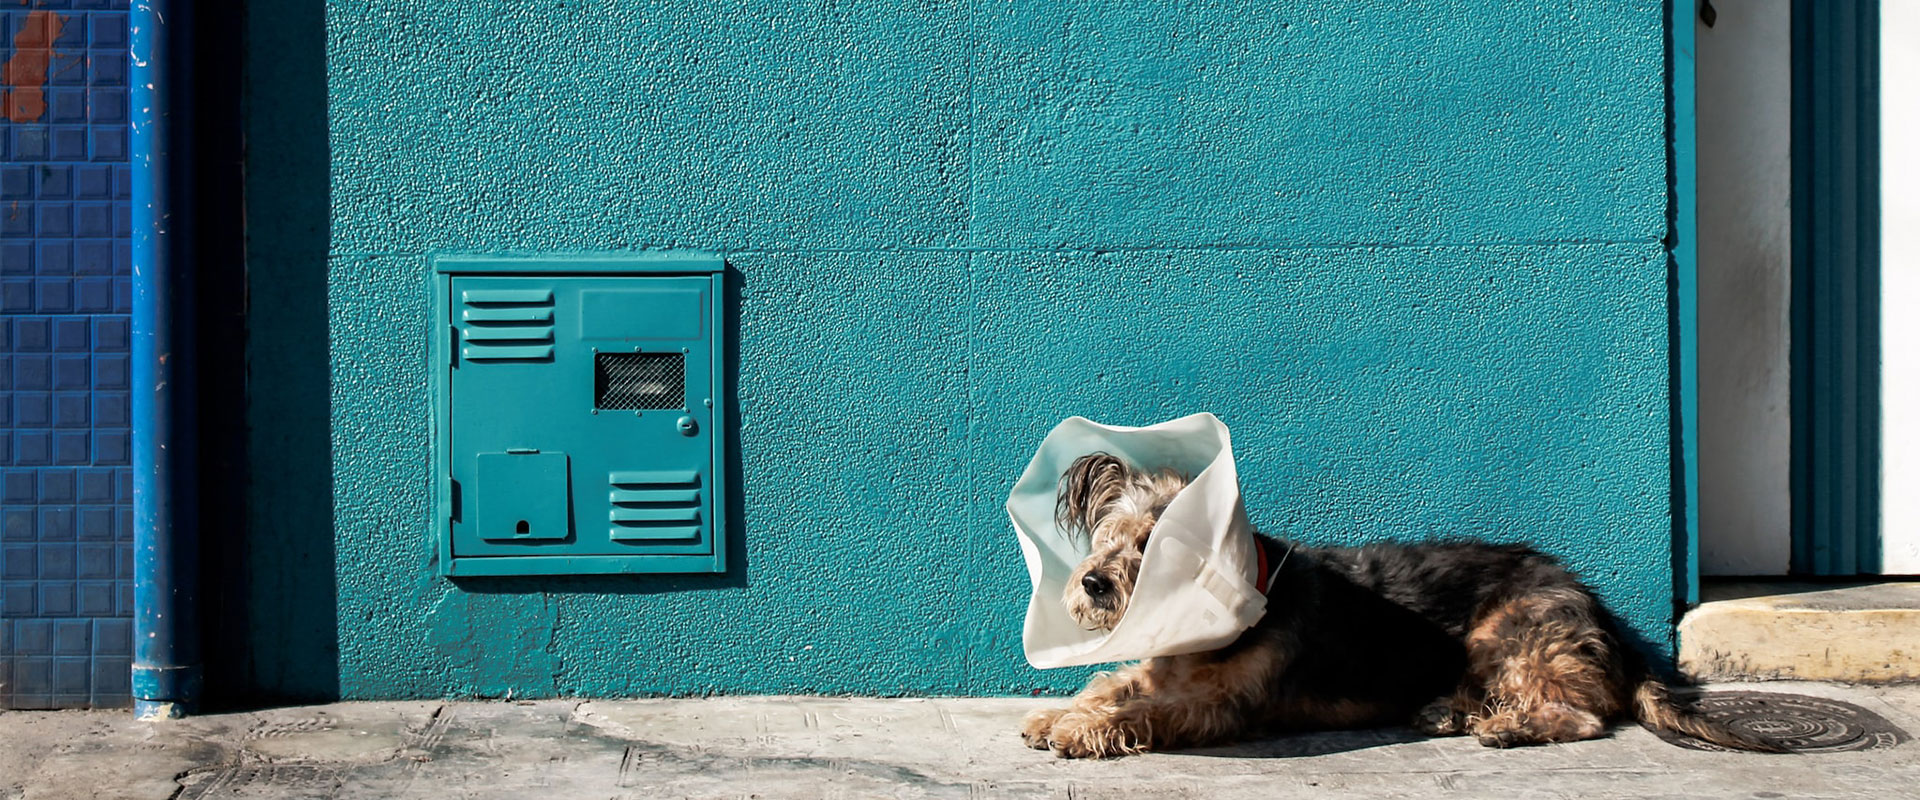
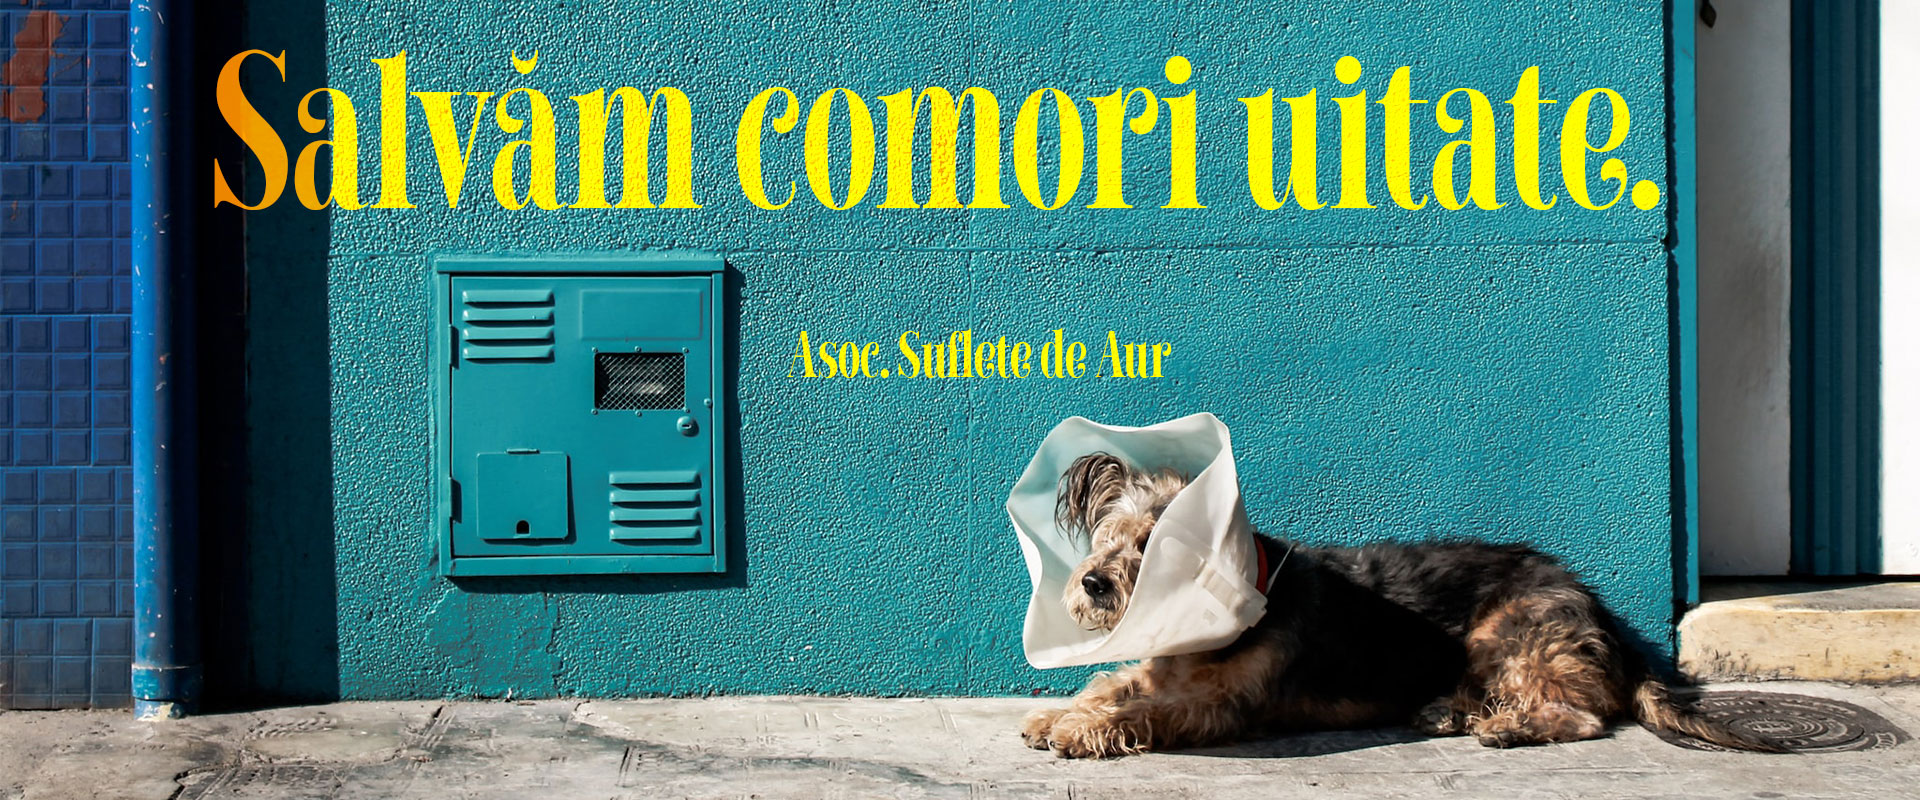
Am adaugat sectiunea Donatii si am ajustat designul
am adaugat sectiunea donatii si implicare am adugat margin la h2-uri si am editat pozele deja folosite

Changed region(s): [[0.0938, 0.0625, 0.875, 0.2812], [0.4062, 0.4062, 0.625, 0.4688]]

diff --git a/index.html b/index.html
@@ -11,30 +11,34 @@
 <style>
 .flex{ display:flex}
 .margin-card{margin:10px}
-
-
+.bg-y{background-color: rgb(225, 176, 55);}
+.bg-b{background-color: rgb(38, 110, 120);}
+.bg-w{background-color: rgb(248, 245, 230);}
+.txt-y{color: rgb(225, 176, 55);}
+.txt-b{color:rgb(52, 150, 162);}
+.txt-w{color:rgb(248, 245, 230);}
 </style>
 
 <body>
- <nav class="navbar navbar-expand-lg bg-body-tertiary">
-  <div class="container-fluid">
-    <a class="navbar-brand" href="#">Acasă</a>
+ <nav class="navbar navbar-expand-lg bg-body-tertiary sticky-top">
+  <div class="container-fluid bg-b">
+    <img src="scut.png" class="x-2" alt="scut galben">
     <button class="navbar-toggler" type="button" data-bs-toggle="collapse" data-bs-target="#navbarNav" aria-controls="navbarNav" aria-expanded="false" aria-label="Toggle navigation">
       <span class="navbar-toggler-icon"></span>
     </button>
     <div class="collapse navbar-collapse" id="navbarNav">
       <ul class="navbar-nav">
         <li class="nav-item">
-          <a class="nav-link active" aria-current="page" href="#">Home</a>
+          <a class="nav-link txt-y" aria-current="page" href="#">Acasă</a>
         </li>
         <li class="nav-item">
-          <a class="nav-link" href="#">Features</a>
+          <a class="nav-link txt-y" href="#">Secțiune 1</a>
         </li>
         <li class="nav-item">
-          <a class="nav-link" href="#">Pricing</a>
+          <a class="nav-link txt-y" href="#">Secțiune 2</a>
         </li>
         <li class="nav-item">
-          <a class="nav-link disabled" aria-disabled="true">Disabled</a>
+          <a class="nav-link txt-y" href="#">Secțiune 3</a>
         </li>
       </ul>
     </div>
@@ -79,7 +83,7 @@
 </div>
 </div>
 
-<h2 class="text-center">Ei așteaptă să fie descoperiți</h2>
+<h2 class="text-center my-4">Ei așteaptă să fie descoperiți</h2>
 
 <div id="carouselExampleCaptions" class="carousel slide">
   <div class="carousel-indicators">
@@ -89,24 +93,24 @@
   </div>
   <div class="carousel-inner">
     <div class="carousel-item active">
-      <img src="caine-cu-limba-scoasa.jpg" class="d-block w-100" alt="...">
+      <img src="caine-cu-limba-scoasa.jpg" class="d-block w-100" alt="caiine cu limba scoasă">
       <div class="carousel-caption d-none d-md-block">
-        <h5>First slide label</h5>
-        <p>Some representative placeholder content for the first slide.</p>
+        <h3>Mochi</h3>
+        <p>Mochi îți aduce zilnic zâmbete cu energia lui dulce.</p>
       </div>
     </div>
     <div class="carousel-item">
-      <img src="caine-cu-gura-deschisa.jpg" class="d-block w-100" alt="...">
+      <img src="caine-cu-gura-deschisa.jpg" class="d-block w-100" alt="caine cu gura deschisă">
       <div class="carousel-caption d-none d-md-block">
-        <h5>Second slide label</h5>
-        <p>Some representative placeholder content for the second slide.</p>
+        <h3>Bubu</h3>
+        <p>Bubu cucerește inimile cu limbuța lui jucăușă.</p>
       </div>
     </div>
     <div class="carousel-item">
-      <img src="caine-cu-spatele.jpg" class="d-block w-100" alt="...">
+      <img src="caine-cu-spatele.jpg" class="d-block w-100" alt="caine întors cu spatele">
       <div class="carousel-caption d-none d-md-block">
-        <h5>Third slide label</h5>
-        <p>Some representative placeholder content for the third slide.</p>
+        <h3>Pistachio</h3>
+        <p>Pistachio promite iubire sinceră cu fiecare privire întoarsă.</p>
       </div>
     </div>
   </div>
@@ -120,9 +124,36 @@
   </button>
 </div>
 
+<h2 class="text-center my-4">Donații & Implicare</h2>
 
+<div class="flex">
+<div class="card mx-1">
+  <img src="donate.jpg" class="card-img-top" alt="baloane D O N A T E">
+  <div class="card-body">
+    <h3 class="card-title">Donează Lunar</h3>
+    <p class="card-text">Chiar și suma echivalentă unei cafele asigură hrana unui cățel pentru o zi. Fii stabilitatea de care au nevoie.</p>
+    <a href="#" class="btn btn-primary">Donează Online</a>
+  </div>
+</div>
 
+<div class="card mx-1">
+  <img src="redirectioneaza.jpg" class="card-img-top" alt="borcan cu mondede">
+  <div class="card-body">
+    <h3 class="card-title">Redirecționează 3.5%</h3>
+    <p class="card-text">Este gratuit pentru tine, dar neprețuit pentru ei. Descarcă formularul și transformă impozitul în viață.</p>
+    <a href="#" class="btn btn-primary">Descarcă Formular</a>
+  </div>
+</div>
 
+<div class="card mx-1">
+  <img src="voluntari.jpg" class="card-img-top" alt="persoane cu tricouri pe care scrie volunteer">
+  <div class="card-body">
+    <h3 class="card-title">Devino Voluntar</h3>
+    <p class="card-text">Timpul tău este cea mai valoroasă resursă. Vino să îi plimbi, să îi îngrijești și să le oferi afecțiune.</p>
+    <a href="#" class="btn btn-primary">Înscrie-te în echipă</a>
+  </div>
+</div>
+</div>
 
 
 
